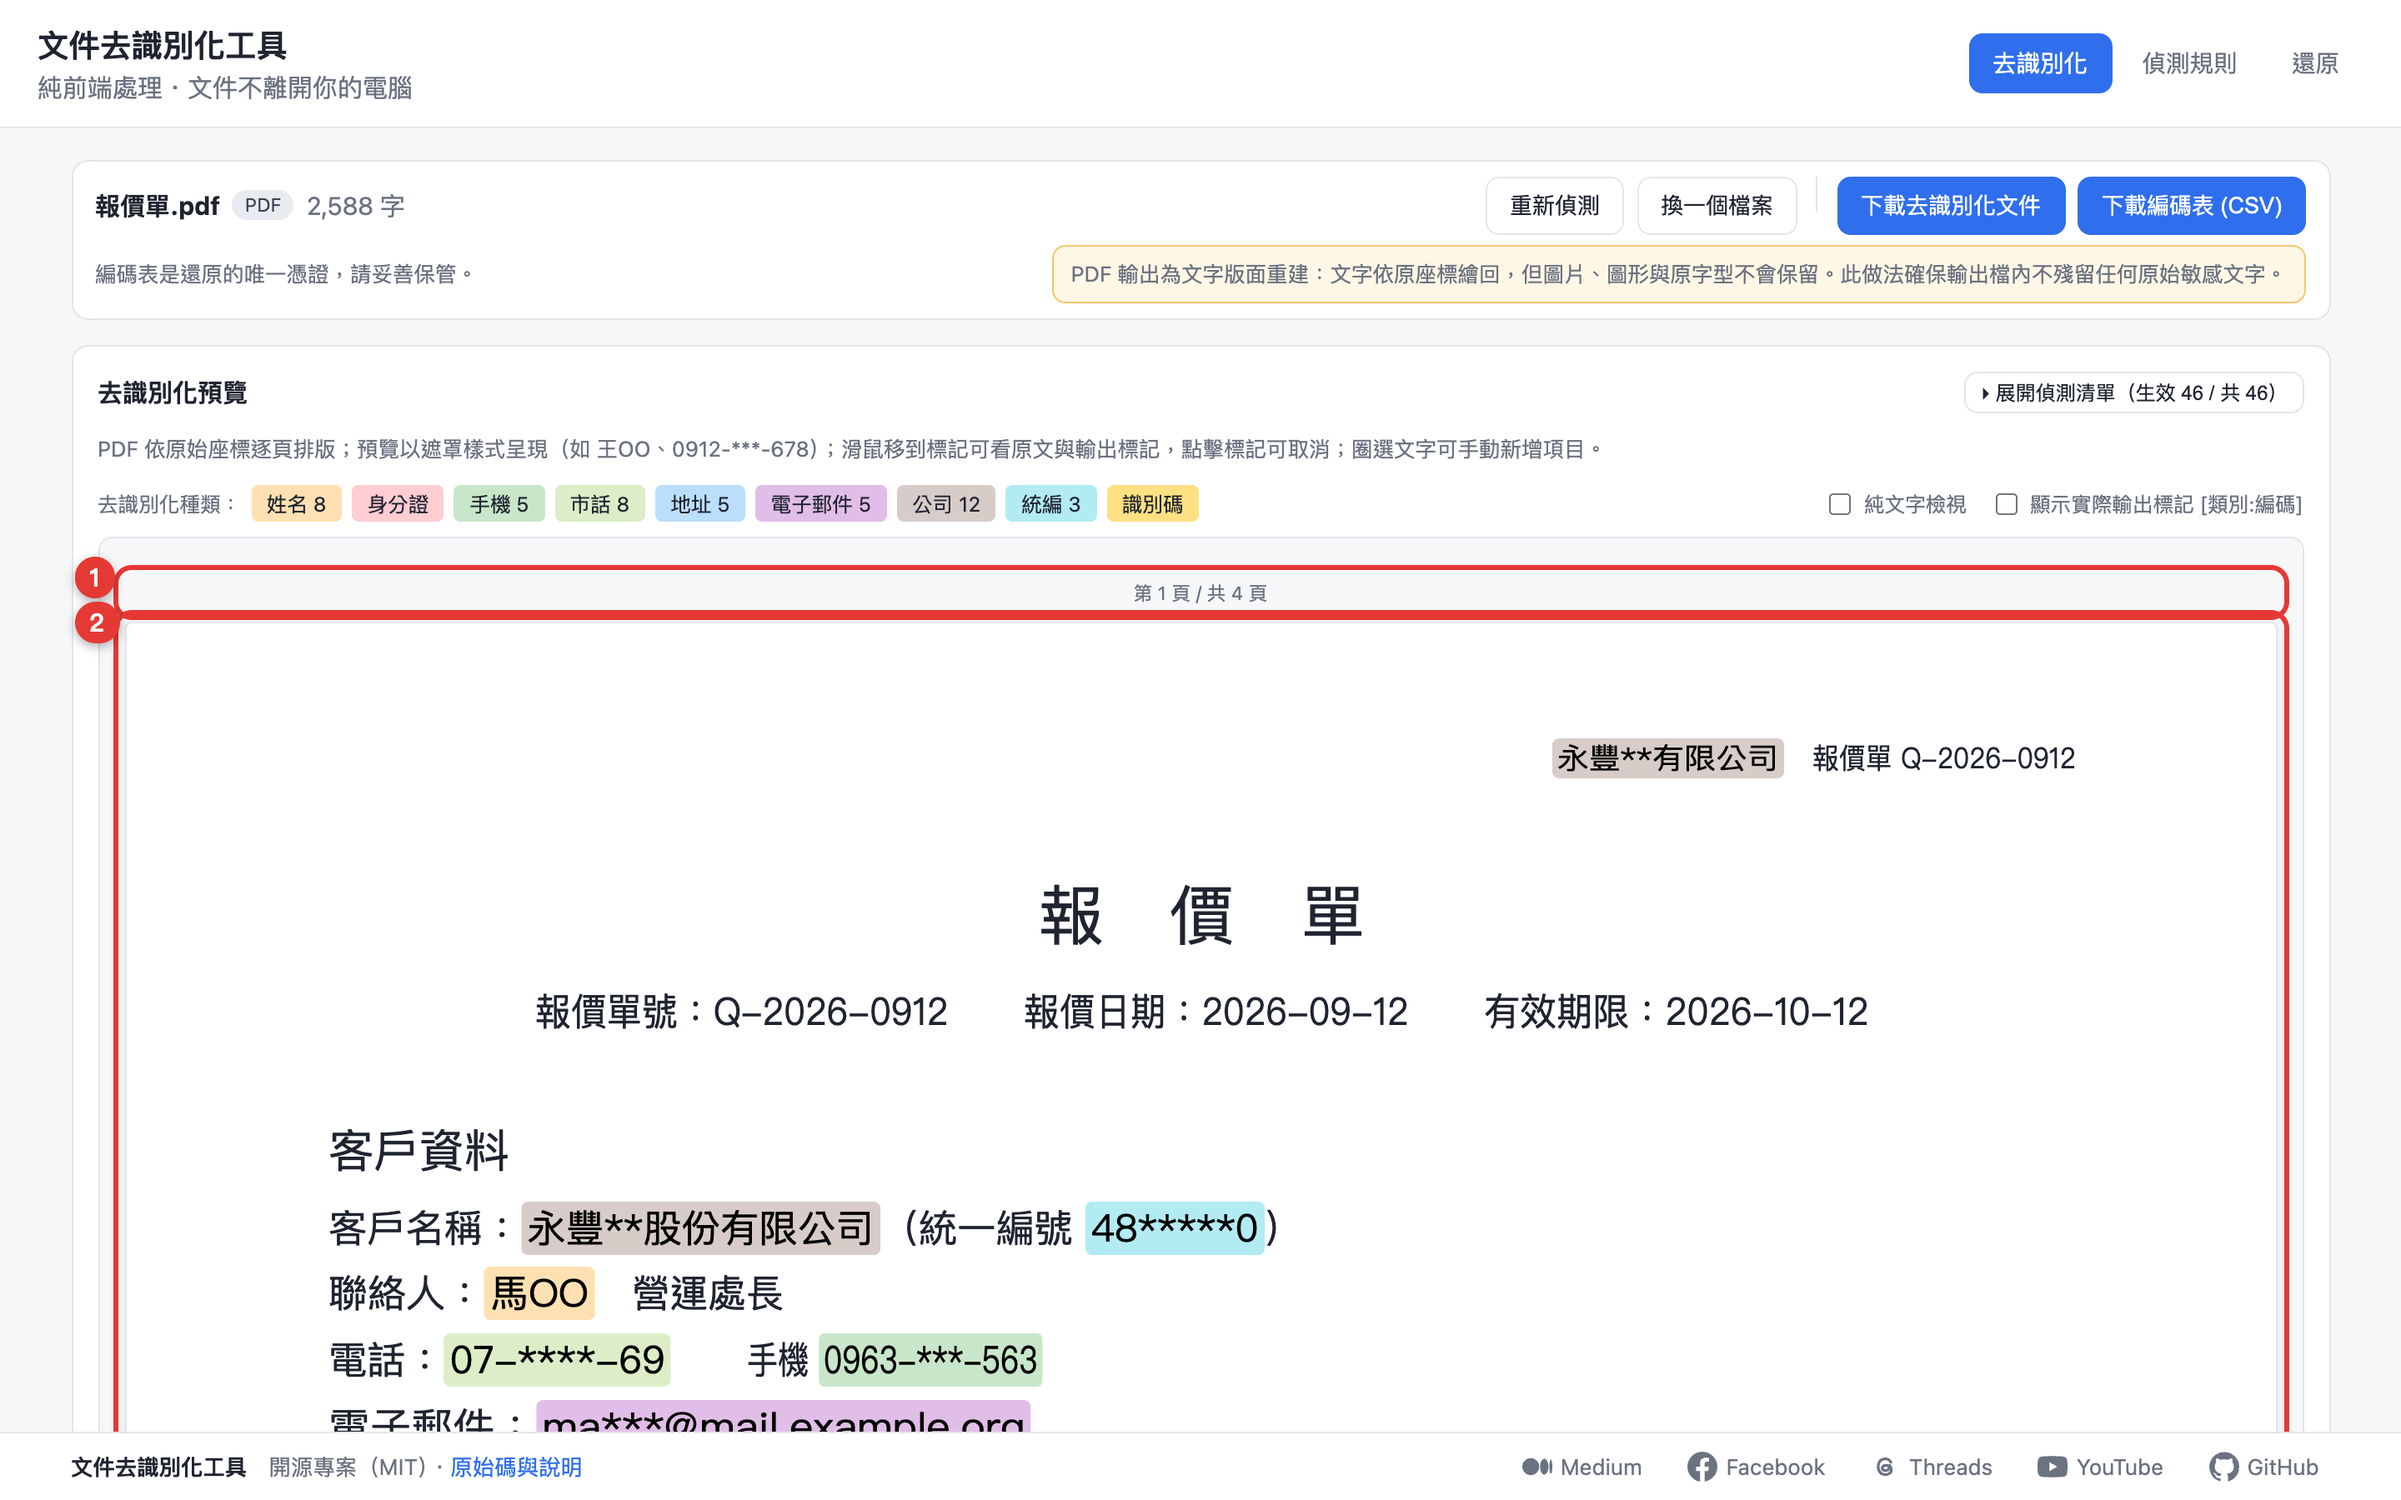
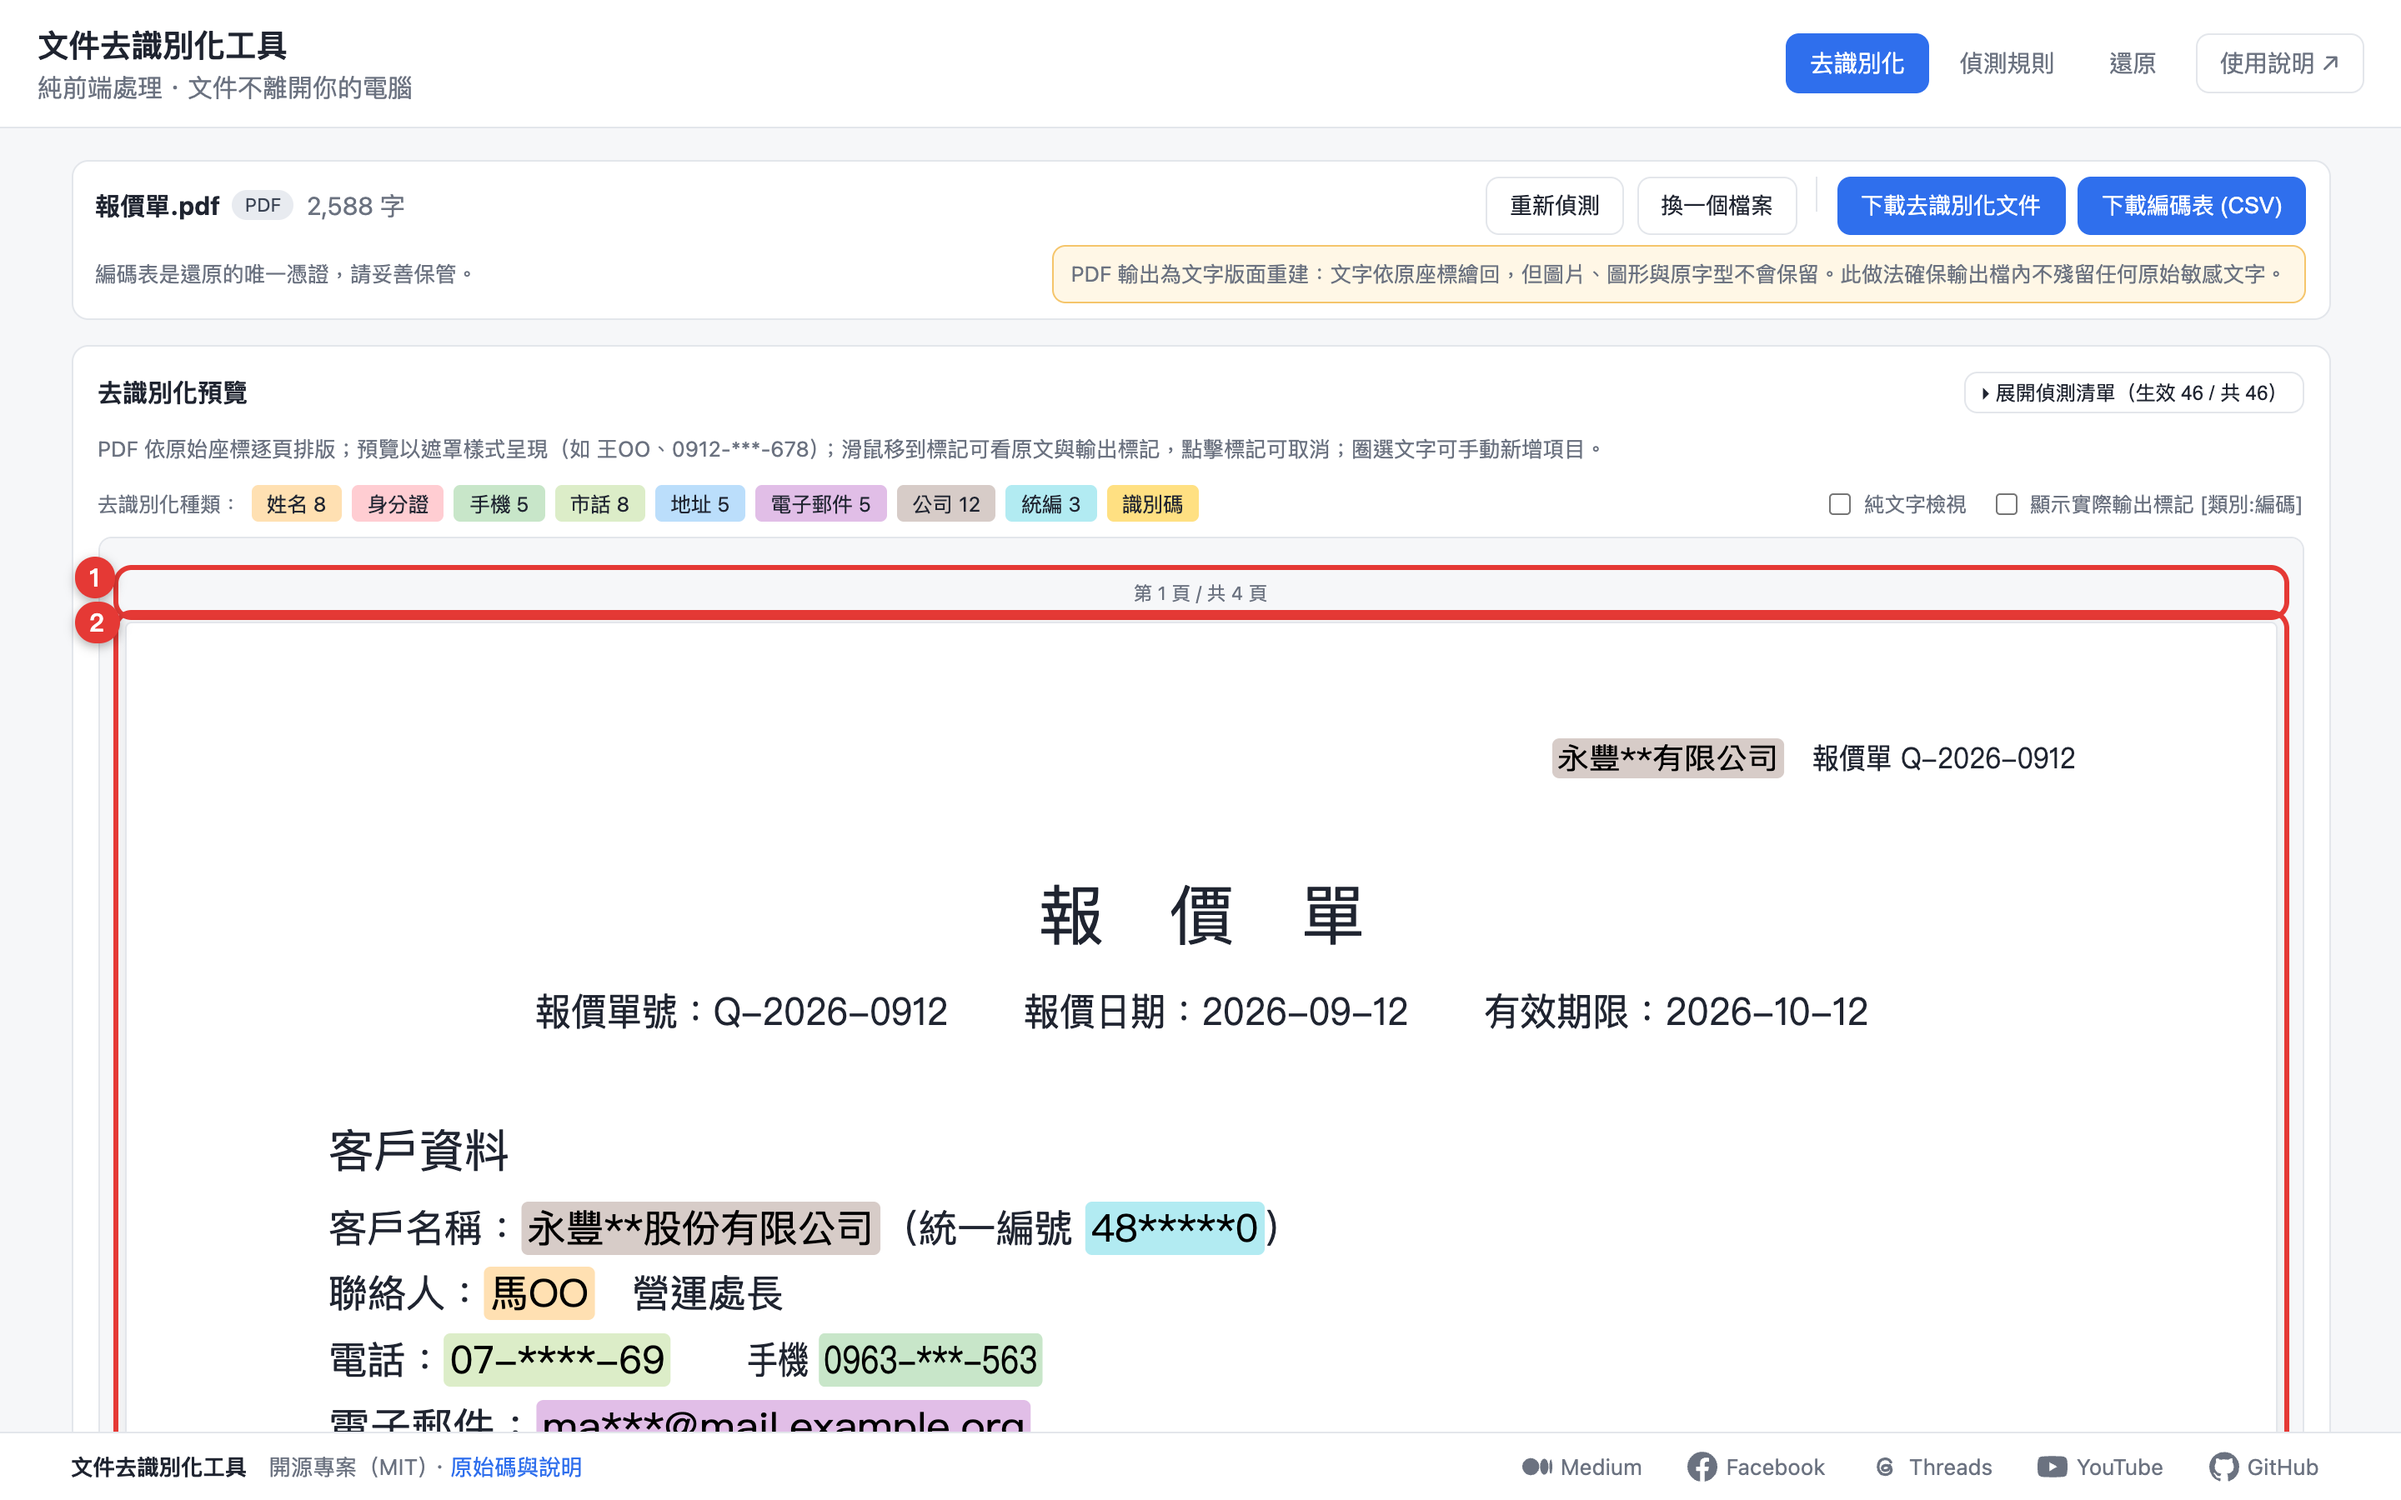
feat(ui): 頁籤列加入「使用說明」連結至 GitHub 專案操作流程
Claude-Session: https://claude.ai/code/session_01Pe1NHyFC7pEQCDo9j3U4g2

Changed region(s): [[0.7188, 0.0, 0.9688, 0.0622]]

diff --git a/src/main.ts b/src/main.ts
@@ -52,6 +52,14 @@ function mount(): void {
   for (const t of TABS) {
     nav.append(el('button', { class: 'tab', 'data-tab': t.id, type: 'button', onClick: () => activate(t.id) }, t.label));
   }
+  const help = el('a', {
+    class: 'tab tab-link',
+    href: 'https://github.com/dean9703111/data-deidentification#操作流程',
+    target: '_blank',
+    rel: 'noopener',
+    title: '開啟 GitHub 專案頁的操作說明',
+  }, '使用說明 ↗');
+  nav.append(help);
 
   const social: [string, string, string][] = [
     ['Medium', 'https://medium.com/@dean-lin', ICONS.medium],

diff --git a/src/styles.css b/src/styles.css
@@ -297,3 +297,5 @@ a.btn { text-decoration: none; display: inline-flex; align-items: center; }
 .social-link:hover { color: var(--primary) !important; background: var(--bg); text-decoration: none !important; }
 .social-link svg { flex-shrink: 0; }
 .seo-fallback { max-width: 800px; margin: 3rem auto; padding: 0 1.5rem; line-height: 1.7; }
+.tab-link { text-decoration: none; margin-left: 0.35rem; border-color: var(--border); }
+.tab-link:hover { color: var(--primary); }
